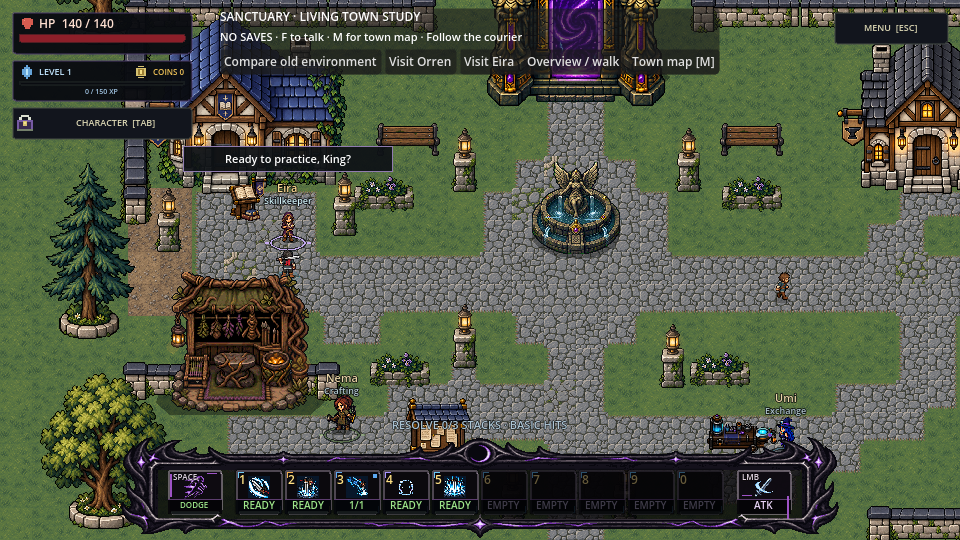
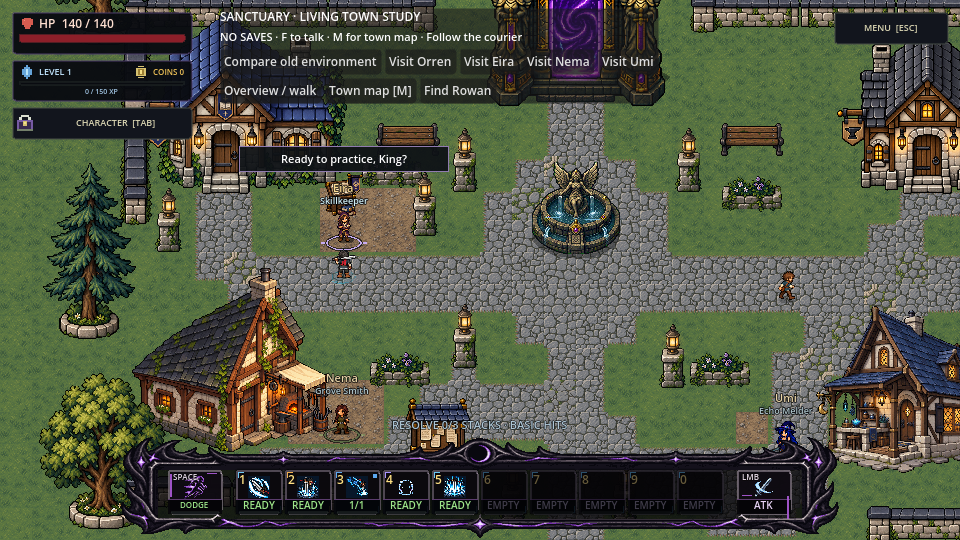
- redesign sanctuary

diff --git a/docs/design/sanctuary-courtyard-renewal.md b/docs/design/sanctuary-courtyard-renewal.md
@@ -1,0 +1,39 @@
+# Sanctuary courtyards and working residents
+
+2026-10-01 follow-up to Decision 163. Implemented in the optional no-save study; owner visual/feel acceptance and campaign promotion remain open. This supersedes the earlier handoff that left Nema and Umi pending.
+
+## Owner feedback and resulting behavior
+
+The owner found the courier gliding, Eira's lectern occupying a road, static vegetation and too many front-facing buildings. They authorized continuing Nema, then Umi, with a more coherent and interactive town.
+
+- Rowan's replacement walk sheet has distinct contact/passing poses, plus a dedicated front/back correction board. A 22-world-pixel stride cycle advances from actual physics displacement, not elapsed time. Stops, player yielding and collisions select standing poses and freeze the stride phase. Old sheets remain preserved. Native movement still needs the owner's feel judgment; image uniqueness alone is not gait verification.
+- Eira stands at344,438 on a teaching nook east of the lodge. The lectern at344,410 is on earth, outside `path_cells`. The main doorway lane remains atx224; a short branch reaches her from the southern road. A planter and lamp frame the nook without occupying it.
+- Nema keeps her existing service root at342,630. The new angled grove-smith house at232,648 exposes its side elevation and a right-facing forge annex. Its separate ground footprint and annex collision leave the service approach at366,658 clear. The former lower-west wall moves south toy704.
+- Umi keeps her existing root at786,650, beside the blue-roof atelier at904,668 with a porch facing the inner town. The southern road runs west of the house instead of through it; her clear approach is784,686. The original Rootforge building and Echo Crucible prop are disabled only in the study.
+- Six trees have individually phased, bounded pixel-stepped upper-foliage wind; collision roots remain static. Their canopy reveal remains active. Two small swallows use four authored wing poses, crossing for12seconds and resting offscreen for10seconds. They have no collision or service authority.
+- Rowan is now an optional civilian conversation: approach for a local F prompt, hear his delivery rounds and town directions. Fixed NPC services take interaction priority when radii overlap. He gives no rewards and does not open shops or modify progression.
+
+## Character presentation
+
+Nema retains her adult human grove-smith identity: dark auburn braid, moss apron, hammer and tongs. Eight poses show inspection, lift, strike and recovery. Umi retains blue hair, cobalt witch hat and restrained crystal work. Eight poses inspect/turn/charge/lower a shard. Both use96px atlas cells at half scale, foot baseline80, nearest sampling and binary alpha. Nema's standing silhouette is58-59px with a64px raised-hammer extent; Umi's64-66px extent includes her hat. Portraits are96px deterministic crops of the same generated source identities.
+
+`artisan_renewal_review.gd` adapts each existing DialogueNpc without replacing its body/trigger shapes. It stops the old WorkIdle timer, uses the separate `artisan_work` animation, holds frame0 for greetings/dialogue and resumes afterward. Nema's retained strike audio fires at contact frame5. Original art, portrait and timer return in comparison. CraftingService, MaterialExchangeService, menus, recipes and progression remain authoritative.
+
+## Navigation, depth and review
+
+New houses have body/bench collision, roof reveal and planned Doorway/Approach/ReturnPoint markers. Interiors are not implemented. The town map schematic follows revised roads and house bounds; service markers still derive positions from live NPC nodes. Greetings hide immediately when King leaves, and Rowan's local prompt hides as dialogue opens.
+
+Run `tools/launch_sanctuary_study.ps1`, or F5 -> Continue -> F10 -> SANCTUARY REVIEW. The top controls now include Visit Nema, Visit Umi and Find Rowan alongside Orren/Eira, comparison and overview. Find Rowan places both actors in an authored clear delivery stop; step away to watch him resume his route. M opens the town map, F talks. Saving remains suppressed for that whole process, including old comparison. Restart normal play to resume saves. The production campaign map has not been promoted.
+
+## Sources and evidence
+
+Built-in imagegen produced the raster art; `tools/build_sanctuary_courtyards.gd` performs deterministic crop/nearest/binary-alpha normalization only.
+
+- Nema: `art_source/generated/characters/npcs/nema/renewal_2026_10_01/` -> `assets/characters/npcs/rootweaver/renewal/`.
+- Umi: `art_source/generated/characters/npcs/umi/renewal_2026_10_01/` -> `assets/characters/npcs/umi/renewal/`.
+- Rowan: `art_source/generated/characters/npcs/courier/locomotion_v2_2026_10_01/` -> `assets/characters/npcs/courier/walk_v2.png` and `portrait.png`. Side rows use `walk_source.png`; front/back use `vertical_source.png`. Original standing poses remain.
+- Houses/swallow: `art_source/generated/environment/sanctuary/courtyards_2026_10_01/` -> `assets/environment/sanctuary/courtyards/`. Exact prompts and manifest are retained. `nema_front_rejected.png` preserves the rejected frontal draft.
+- Native rendered review: `art_source/review/environment/sanctuary_courtyards_2026_10_01/`; existing regression captures remain under `sanctuary_life_2026_10_01/`.
+- Focused checks: `tests/sanctuary_courtyards_smoke.gd` exercises real F dialogue, cancellation/completion, both service menus, eight-pose playback, original restoration, unchanged shapes, road/door/service access, collision-driven feet, courier/service F priority, roof reveal, birds, cleanup and save suppression. Run alongside `sanctuary_life_smoke.gd`, `sanctuary_refuge_review_smoke.gd` and the production `sanctuary_hub_smoke.gd`.
+
+Verified: 99 rendered courtyard checks, 95 rendered town-life checks, 108 rendered existing study checks and production hub smoke pass. Remaining: owner gait/composition/audio judgment, interiors, representative-phone profiling and deliberate campaign promotion. Existing shared GPU texture teardown warnings remain separate from these runtime changes.

diff --git a/ARCHITECTURE.md b/ARCHITECTURE.md
@@ -1,10 +1,12 @@
 # Architecture
 
+**Courtyard renewal (2026-10-01):** `artisan_renewal_review.gd` adapts Nema/Umi presentation, suspends old work timers, holds/resumes `artisan_work`, and restores originals on comparison. Existing body/trigger resources and SanctuaryFlow menu routing remain authoritative. TownDressing composes house/bench collision and roof reveal. Courier footfall phase derives from physics distance; `courier_dialogue.gd` adds a rewardless conversation with service F priority. `garden_birds.gd` uses two birds with Tween/Timer flights; `foliage_wind.gdshader` changes only tree visuals. `build_sanctuary_courtyards.gd` owns offline normalization. Details: `docs/design/sanctuary-courtyard-renewal.md`.
+
 **Sanctuary town life (Decision163):** `town_dressing.gd` owns replacement prop/collision composition and snapshots original cart/tree visibility/process state; study enable/compare controls both. New tree canopy Areas fade art without changing trunk footprints. `service_beacon.gd` observes DialogueNpc proximity/dialogue for rings and throttled speech; Orren/Eira adapters own timer-driven attentive holds. `town_map.gd`/`town_map_drawing.gd` own the service directory, schematic map and150ms compass refresh; modal visibility hides them immediately. `town_noticeboard.gd` opens that same map through local F input. `sanctuary_courier.gd` owns only the ambient CharacterBody2D's fixed route, physics movement, standing/walk selection and player yielding. It has layer0/mask1, cannot block King and has no reward/service/save authority. All are optional study composition.
 
 SanctuaryFlow's debug admin button mounts at most one named `SanctuaryStudy`, suppresses session saves before mounting, starts beside Orren and closes admin mode. It does not change normal Continue or automatically persist/promote layout. Compare never unsuppresses saving. The command-line launcher reaches the same overlay. The new asset normalizer is `tools/build_sanctuary_life_art.gd`; source provenance and native evidence are cataloged.
 
-**Eira review (2026-10-01):** `levels/sanctuary/review/eira_renewal_review.gd` adapts the existing Skillkeeper DialogueNpc alongside Orren's adapter. It swaps presentation/position only, suspends IdleBreath and the old aura, binds a generated portrait and eight-frame `idle_down`, and observes dialogue signals for attentive hold/resume. Original frames, portrait, position, scale, filter and aura return during comparison. Body/trigger resources, dialogue lines, skill menu/training and save authority remain unchanged. Eira stands at288,438 beside the lodge with an unobstructed288,474 interaction approach; Visit Eira reaches it. The town-life launcher starts beside Orren.
+**Eira review (2026-10-01):** `eira_renewal_review.gd` adapts the existing Skillkeeper without replacing collision or service authority. Eight reading poses, portrait, attentive holds and comparison restoration remain. The courtyard correction places Eira at344,438 with a344,474 approach and lectern at344,410 outside the road. The old IdleBreath/aura remain disabled only in the study.
 
 **NPC identity labels (2026-09-30):** Reusable `entities/npcs/presentation/npc_nameplate.gd` renders outlined name/role text with proximity-driven color changes. Orren's review adapter owns it and hides it for original-art comparison; labels ignore mouse input and own no interactions. Current body atlas is `idle_work_v2.png` (60px body/.5 scale, same96px cells and y80 foot baseline).
 

diff --git a/GAME_DESIGN.md b/GAME_DESIGN.md
@@ -2,7 +2,7 @@
 
 **Inhabited Sanctuary study (Decision163, 2026-10-01):** Orren now has a compact outdoor anvil/tool station beside his accepted workshop; the former red merchant cart is absent in the redesigned view. Eira's reading corner gains a lectern. Planted linden/cedar trees and continuous limestone garden boundaries replace old silhouettes and scattered broken walls. Four service NPCs have role-colored ground markers and brief approach greetings; Orren/Eira look up, then resume work. M opens a town map with selectable service/gate guidance, and F at the noticeboard opens the same map. A nonblocking courier walks a circuit, pauses near services and yields near King. These features add life/discovery without new shops, rewards or NPC service rules. The optional review is available after F5/Continue through F10; default campaign art remains unchanged.
 
-**Sanctuary renewal (2026-10-01):** Refresh all NPCs gradually with individual portraits and role-specific idle poses at King's human scale. The optional study pairs Orren's blade inspection with his stone/timber workshop and Eira's book-reading/page-turn idle with the trainer lodge. Eira retains violet/gold scholar identity with visible arms, a matching portrait and Skillkeeper label. Both pause in an attentive pose for dialogue; Orren remains dialogue-only, while Eira retains the existing skill service on completed dialogue. Nema/Umi await their visual passes. Buildings reserve readable approaches for later interiors; none of these study doors can be entered yet. See `docs/design/sanctuary-environment-renewal.md`.
+**Sanctuary renewal (2026-10-01):** All four service NPCs now have role-specific working sprites, matching portraits and attentive greeting/dialogue holds in the optional study. Nema hammer-forges beside a west-side angled cottage; Umi inspects a crystal beside an east-side blue-roof atelier. Eira's teaching nook is separate from the road. Rowan follows deliveries, stops for King and offers town directions through F dialogue; fixed services retain priority. Small tree crown motion and occasional swallows add ambient life. Crafting, exchange, skill training and Orren's dialogue-only status remain unchanged. Doors remain planned; campaign promotion is pending. See `docs/design/sanctuary-courtyard-renewal.md`.
 
 **Current Worldsplitter (Decision 162, 2026-09-27):** The owner corrected repeated strikes to fresh summoned swords. Foundation/Advanced/Mature now summon one/two/three blades at the same point, with .28s gaps. Blade arrival is now 144px high, with follow-up summoning begun .34s before impact for clearer momentum. Each drives 60px deep, fractures while sinking, and detonates into a broad radial light AOE; a generated summoning seam and energy filaments precede each blade. The rejected single-blade bounce/pullout is removed. King retains .32s commitment, existing total damage, training and saves. See `docs/design/worldsplitter-fractured-light.md`; visual acceptance and mobile profiling remain pending. Earlier conflicting Worldsplitter entries below are historical.
 

diff --git a/docs/decisions/163-inhabited-sanctuary-study.md b/docs/decisions/163-inhabited-sanctuary-study.md
@@ -20,10 +20,10 @@ Use the last approach. Hide/disable the legacy cart and six trees only in the st
 
 All four service NPCs gain role-colored ground rings, labels and throttled approach greetings. Orren/Eira briefly hold their attentive pose, then resume authored working frames. Their DialogueNpc and service authorities remain intact; Orren does not gain a shop. A town map exposes existing services and the expedition gate, tracks King and highlights one chosen destination with a compass cue. It gives direction, not automatic pathfinding or movement. F at the noticeboard opens the same map; M toggles it.
 
-One rewardless, nonblocking courier follows an authored collision-checked circuit with service pauses, generated four-direction walk and standing poses, and yields near King. Physics movement is confined to this ambient actor; it owns no player movement, interactions, progression or saving.
+One rewardless, nonblocking courier follows an authored collision-checked circuit with service pauses, directional contact/passing and standing poses, and yields near King. Following owner feedback, stride phase derives from actual displacement; waiting and obstruction select idle. Rowan now has an optional F conversation routed through existing DialogueNpc/SanctuaryFlow, with fixed services taking priority if ranges overlap. No rewards or save authority are added.
 
 F5/Continue retains original campaign presentation. In debug builds, F10 exposes `SANCTUARY REVIEW · NO SAVES`. Entering mounts one study instance, suppresses saving for the rest of that process, starts beside Orren and closes admin mode. The existing launcher reaches the same study directly. Old/new comparison restores original props/collision/presentation but does not re-enable saves. Restart normal play to resume saving.
 
 ## Consequences
 
-The town has recognizable destinations, purposeful work corners, ambient circulation and explicit discovery controls without moving essential services or promoting unreviewed content. Asset sources, rejected/old versions and exact prompts remain recoverable. Full interiors, Nema/Umi remodeling, campaign promotion, mobile profiling and owner feel acceptance remain future work.
+The town has recognizable destinations, purposeful work corners and ambient circulation. The owner's follow-up authorized Nema then Umi: both now have working presentations/portraits and angled houses; Eira's lectern is off-road, foliage has bounded wind and two swallows fly occasionally. Sources/rejected versions remain recoverable. Interiors, campaign promotion, mobile profiling and owner feel acceptance remain future work. `../design/sanctuary-courtyard-renewal.md` owns current correction details.

diff --git a/CHANGELOG.md b/CHANGELOG.md
@@ -1,5 +1,15 @@
 # Changelog
 
+## 2026-10-01 — Sanctuary gait, courtyards and remaining artisans
+
+- Replaced nearly static courier strides with contact/passing drawings and distance-driven phase; waits, yielding and physical blockage select standing. Rowan gains F dialogue and fixed-service priority.
+- Moved Eira/lectern to an off-road teaching nook; revised paths, garden props and lower-west wall.
+- Added Nema hammer-work and Umi crystal-work sheets/portraits, attentive holds and angled houses with bench collision/roof reveal. Existing crafting/exchange services remain connected; comparison restores original assets/timers.
+- Added tree crown wind, occasional two-swallow flights, Visit Nema/Umi and Find Rowan.
+- 99 rendered courtyard checks, 95 town-life checks, 108 existing study checks and production hub smoke pass. Shared GPU teardown warnings remain. Details: `docs/design/sanctuary-courtyard-renewal.md`.
+
+Earlier iteration:
+
 - 2026-10-01: Implemented Decision163's inhabited Sanctuary study from owner screenshot feedback. Removed the old red cart from the new layout; generated matching planted trees, small workstations, noticeboard and intact wall modules; placed connected boundaries with clear approaches. Added four NPC rings/greetings, Orren/Eira attentive holds, M town map/service tracking, F noticeboard and one collision-tested walking/resting courier that yields near King. Added F10 admin entry after normal Continue with explicit session save suppression and single-overlay reuse. Source prompts, old assets and native captures retained; town-life suite passes91 rendered/82 headless checks, existing rendered study108 and production hub smoke pass. Normal campaign promotion and remaining NPC/interior work are still pending; shared GPU shutdown warnings remain.
 
 - 2026-10-01: Reviewed Orren V2 beside King and continued the staged Sanctuary NPC renewal with Eira. Generated eight reading/page-turn poses and a matching portrait, normalized fixed foot registration and half-scale body, added Skillkeeper label and lodge-side placement, and retained the original F/dialogue/skill-service authority. Old/new comparison restores her original presentation and position. Launcher starts beside Eira. Review passes108 rendered/94 headless checks with native captures; production hub smoke passes. Eira visual acceptance, Nema/Umi, interiors and campaign promotion remain pending. Shared GPU shutdown warnings remain.

diff --git a/ROADMAP.md b/ROADMAP.md
@@ -1,8 +1,8 @@
 # Roadmap
 
-**Latest Sanctuary handoff (2026-10-01, Decision163):** Town-life pass implemented in the optional study: old red cart/trees replaced, purposeful workstations and intact walls, reactive service markers/greetings, M map and F noticeboard, walking/resting courier, F10 entry after normal Continue. Next: owner town/interaction/route feel review, then Nema/Umi individually. Continue via `CONTINUE_SANCTUARY.md`.
+**Latest Sanctuary handoff (2026-10-01):** Implemented gait/layout corrections, Nema and Umi renewals with angled artisan houses, foliage wind and swallows, and civilian Rowan dialogue. Eira's lectern is off-road. Next: owner native-scale gait/composition review, one interior proof, phone profiling and deliberate campaign promotion. Continue via `CONTINUE_SANCTUARY.md`.
 
-**Active milestone — Sanctuary renewal (2026-10-01):** First terrain/lodge/workshop direction accepted; Orren and Eira retain individual portraits/eight-pose working idles, now within the inhabited-town pass. Next: town feel review, Nema and Umi with their buildings, then one enter/exit interior proof and campaign promotion before resuming skill progression. Full phased scope: `docs/design/sanctuary-environment-renewal.md`.
+**Active milestone — Sanctuary renewal (2026-10-01):** Orren/workshop and Eira/lodge are retained; Nema and Umi now have eight-pose working presentations and side-elevation houses in the optional town study. All four retain existing service authority. Current scope and evidence: `docs/design/sanctuary-courtyard-renewal.md`; earlier stages are recorded in `docs/design/sanctuary-environment-renewal.md`.
 
 **Owner milestone accepted (2026-09-27):** King Skills 1–5 are accepted as the current design/visual baseline after the Worldsplitter momentum review. Preserve this baseline for subsequent work. Campaign progression completion, whole-kit balance, cleanup and mobile profiling remain separate follow-ups; acceptance does not mark those finished.
 

diff --git a/CONTINUE_SANCTUARY.md b/CONTINUE_SANCTUARY.md
@@ -1,5 +1,17 @@
 # Continue Sanctuary renewal
 
+## Current continuation — courtyard correction and Nema/Umi, 2026-10-01
+
+Read the required project docs, then `docs/design/sanctuary-courtyard-renewal.md`. The owner authorized continuing after rejecting gliding courier legs, Eira's road placement and static surroundings. Implemented: contact/passing gait driven by distance, an off-road teaching nook, Nema and Umi working sprites/portraits and angled houses, foliage wind, two occasional swallows, and F dialogue with Rowan. NPC service authority and King are retained.
+
+**Test:** F5 -> Continue -> F10 -> SANCTUARY REVIEW, or `tools/launch_sanctuary_study.ps1`. Visit Nema/Umi, Find Rowan, F talk, M map; step away from Rowan to watch him resume. Compare restores old art/layout, but saves remain suppressed until process restart. Campaign art is not promoted.
+
+**Verified:** 99 rendered courtyard checks, 95 town-life checks, 108 existing study checks and production hub smoke pass. Courtyard tests exercise real F/cancel/complete/menu flow, eight-pose playback, original restoration, road/door access, physical blockage/distance cadence, service priority, roof reveal and birds. Native images: `art_source/review/environment/sanctuary_courtyards_2026_10_01/`. Shared GPU teardown warnings remain.
+
+**Next:** owner native-scale gait/composition/identity review, one complete interior proof, phone profiling and deliberate promotion. Nema/Umi are implemented candidates, not approved content. Preserve user changes; do not commit/push.
+
+Everything below is historical where it describes the earlier town iteration or says Nema/Umi are pending.
+
 ## Current continuation — inhabited town, 2026-10-01
 
 Verified: town-life suite91 rendered/82 headless checks, existing Sanctuary review108 rendered checks, production hub smoke and `git diff --check` pass. Shared GPU texture shutdown warnings remain. No commit, branch switch or push was performed.

diff --git a/KNOWN_ISSUES.md b/KNOWN_ISSUES.md
@@ -1,6 +1,6 @@
 # Known Issues
 
-**Sanctuary review (2026-10-01, Decision163):** Town-life checks pass91 rendered/82 headless assertions; the108-check rendered study and production hub smoke also pass. Old red cart/trees are hidden and noncolliding in the study; replacement trees, workstations, connected walls, greetings/beacons, map/noticeboard and courier are implemented. Owner town/animation feel, Nema/Umi remodeling, interiors, mobile profiling and campaign promotion remain unfinished. F10 review entry suppresses saves for the rest of that process; old comparison does not restore saving. Shared GPU texture teardown warnings persist. Continue via `CONTINUE_SANCTUARY.md`.
+**Sanctuary review (2026-10-01):** Owner-reported courier gliding and lectern-in-road issues prompted contact/passing drawings, distance-driven steps with collision/rest standing, and an off-road Eira teaching nook. Nema/Umi now have renewed working sprites, portraits and angled houses; trees sway, swallows fly and Rowan supports F dialogue. 99 rendered courtyard checks, 95 town-life checks, 108 existing study checks and the production hub smoke pass. Owner animation/composition judgment, interiors, phone profiling and campaign promotion remain open. F10 study entry suppresses saves until restart. Shared GPU texture teardown warnings persist. See `docs/design/sanctuary-courtyard-renewal.md`.
 
 **Worldsplitter correction (Decision 162, 2026-09-27):** The rejected bouncing sword and narrow sideways splash are replaced by fresh summoned blades and broad radial detonations. Distinct-blade, burial, all-direction AOE and control checks pass. Owner art/audio acceptance and mobile profiling remain open. Existing shared GPU shutdown warnings persist.
 

diff --git a/PROJECT_CONTEXT.md b/PROJECT_CONTEXT.md
@@ -1,6 +1,6 @@
 # Project Context
 
-**Continue in a new chat (2026-10-01, Decision163):** Read `CONTINUE_SANCTUARY.md`. The owner requested an inhabited-town pass after Eira: remove the red cart, replace old trees, organize walls, make NPCs react/stand out and add a walking civilian. The study now has generated trees/workstations/intact boundaries, four service beacons/greetings, M town map with tracking, F noticeboard and a courier circuit with walking/rest poses. F5 → Continue → F10 → SANCTUARY REVIEW enters the same no-save study as the launcher, beside Orren. Owner feel review, Nema/Umi remodeling, interiors and campaign promotion remain pending.
+**Continue Sanctuary (2026-10-01):** Read `CONTINUE_SANCTUARY.md` and `docs/design/sanctuary-courtyard-renewal.md`. The latest owner correction adds contact/passing courier drawings with distance-driven steps, an off-road Eira teaching nook, Nema then Umi working sprites/portraits and angled houses, foliage wind, occasional swallows and F conversation with Rowan. The optional study now has Visit Nema, Visit Umi and Find Rowan. F5 -> Continue -> F10 -> SANCTUARY REVIEW or the launcher reaches it; saves stay suppressed until restart. Owner feel review, interiors and campaign promotion remain pending.
 
 **Active Sanctuary renewal (2026-10-01):** The optional study retains Orren/workshop and Eira/trainer lodge and adds Decision163's town life. Services and King remain authoritative and unchanged; Orren is dialogue-only. Review suppresses saves until process restart, even in old comparison. Read `docs/design/sanctuary-environment-renewal.md`.
 

diff --git a/docs/design/sanctuary-environment-renewal.md b/docs/design/sanctuary-environment-renewal.md
@@ -1,6 +1,6 @@
 # Sanctuary renewal — staged environment and NPC work
 
-**Latest continuation (2026-10-01, Decision163):** Owner screenshot feedback led to a living-town pass: old red cart and trees replaced, walls organized into connected boundaries, purposeful workstations, four service markers/greetings, a town map/noticeboard and walking courier. The earlier Orren/Eira work remains. Current evidence: `art_source/review/environment/sanctuary_life_2026_10_01/`. Town feel review is next; Nema/Umi remodeling, interiors and campaign promotion remain pending. New-chat handoff: `CONTINUE_SANCTUARY.md`.
+**Latest continuation (2026-10-01):** The owner rejected the courier's sliding feel and lectern placement, then authorized Nema and Umi. Their working sprites/portraits and angled houses are now integrated, alongside distance-driven courier poses, an off-road teaching nook, foliage wind, swallows and Rowan dialogue. Current layout, sources and verification are in `sanctuary-courtyard-renewal.md`. Earlier sections below describe prior iterations where positions or pending status differ.
 
 Updated 2026-10-01. Owner direction: a richer inhabited fantasy RPG settlement, cohesive trees/walls/workstations, discoverable reactive NPCs, walking civilians, finer tiles, useful buildings with future interiors, and all service NPCs refreshed to match current King. Keep accepted workshop/lodge and King Skills1–5; preserve service functionality and stage major service-character replacements individually.
 

diff --git a/README.md b/README.md
@@ -1,5 +1,7 @@
 # Battle of Gods
 
+**Latest Sanctuary review:** F5 -> Continue -> F10 -> **SANCTUARY REVIEW · NO SAVES**, or run `tools/launch_sanctuary_study.ps1`. Visit Nema/Umi shows the new artisans and angled houses; Find Rowan brings you to the courier for F dialogue, then step away to watch his walk. M opens the map. Eira's teaching nook, tree wind and occasional swallows are included. Compare restores the old layout; restart normal play to resume saves. This remains an optional study. Details: `docs/design/sanctuary-courtyard-renewal.md`.
+
 Continuing this project in a new chat: start with `CONTINUE_SANCTUARY.md` after the required context docs. The living Sanctuary study includes Orren/Eira, replacement trees/workstations/walls, NPC discovery and a walking courier.
 
 **Sanctuary redesign review:** **F5 → Continue → F10 → SANCTUARY REVIEW · NO SAVES**, or run `tools/launch_sanctuary_study.ps1`. Both open beside Orren. **M** opens the town map; choose a destination to highlight its NPC and show direction. **F** talks to NPCs or opens the map at the noticeboard south-west of the fountain. Completing Eira's dialogue opens existing skills. Top controls compare old/new, visit Orren/Eira and switch overview/walk. Saving stays suppressed for the rest of this process, including old comparison; restart normal play to resume saving. Normal Continue retains campaign art until promotion. See `docs/design/sanctuary-environment-renewal.md`.

diff --git a/ASSET_CATALOG.md b/ASSET_CATALOG.md
@@ -1,5 +1,11 @@
 # Asset Catalog
 
+## Sanctuary courtyard correction — 2026-10-01
+
+Built-in imagegen assets: Nema/Umi atlases and96px portraits in `assets/characters/npcs/rootweaver/renewal/` and `assets/characters/npcs/umi/renewal/`; Rowan's `walk_v2.png` and `portrait.png` in `assets/characters/npcs/courier/`; angled houses and swallow in `assets/environment/sanctuary/courtyards/`. Existing courier standing poses remain.
+
+Exact prompts/originals: `art_source/generated/characters/npcs/nema/renewal_2026_10_01/`, `art_source/generated/characters/npcs/umi/renewal_2026_10_01/`, `art_source/generated/characters/npcs/courier/locomotion_v2_2026_10_01/` and `art_source/generated/environment/sanctuary/courtyards_2026_10_01/`. Builder: `tools/build_sanctuary_courtyards.gd`. Manifest and rejected frontal house are retained. Full mapping and native evidence: `docs/design/sanctuary-courtyard-renewal.md`.
+
 ## Inhabited Sanctuary — 2026-10-01
 
 - Runtime environment: `assets/environment/sanctuary/inhabited/` contains linden128x156, cedar93x176, anvil station69x48, lectern38x44, horizontal wall96x32, vertical wall32x96, pillar28x39 and noticeboard64x69 PNGs. Binary alpha/nearest, separate footprints/canopy fade, no baked actors.
